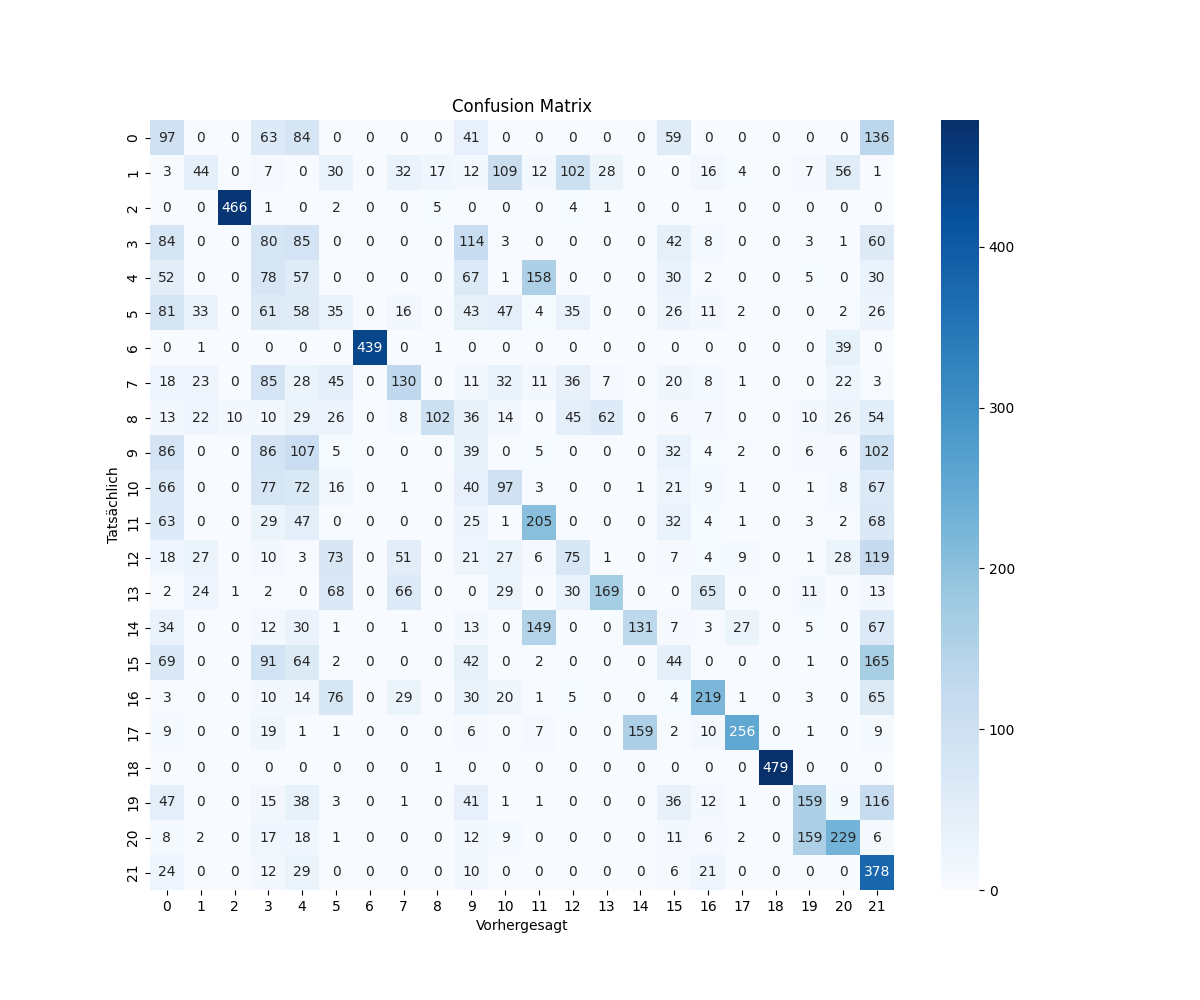
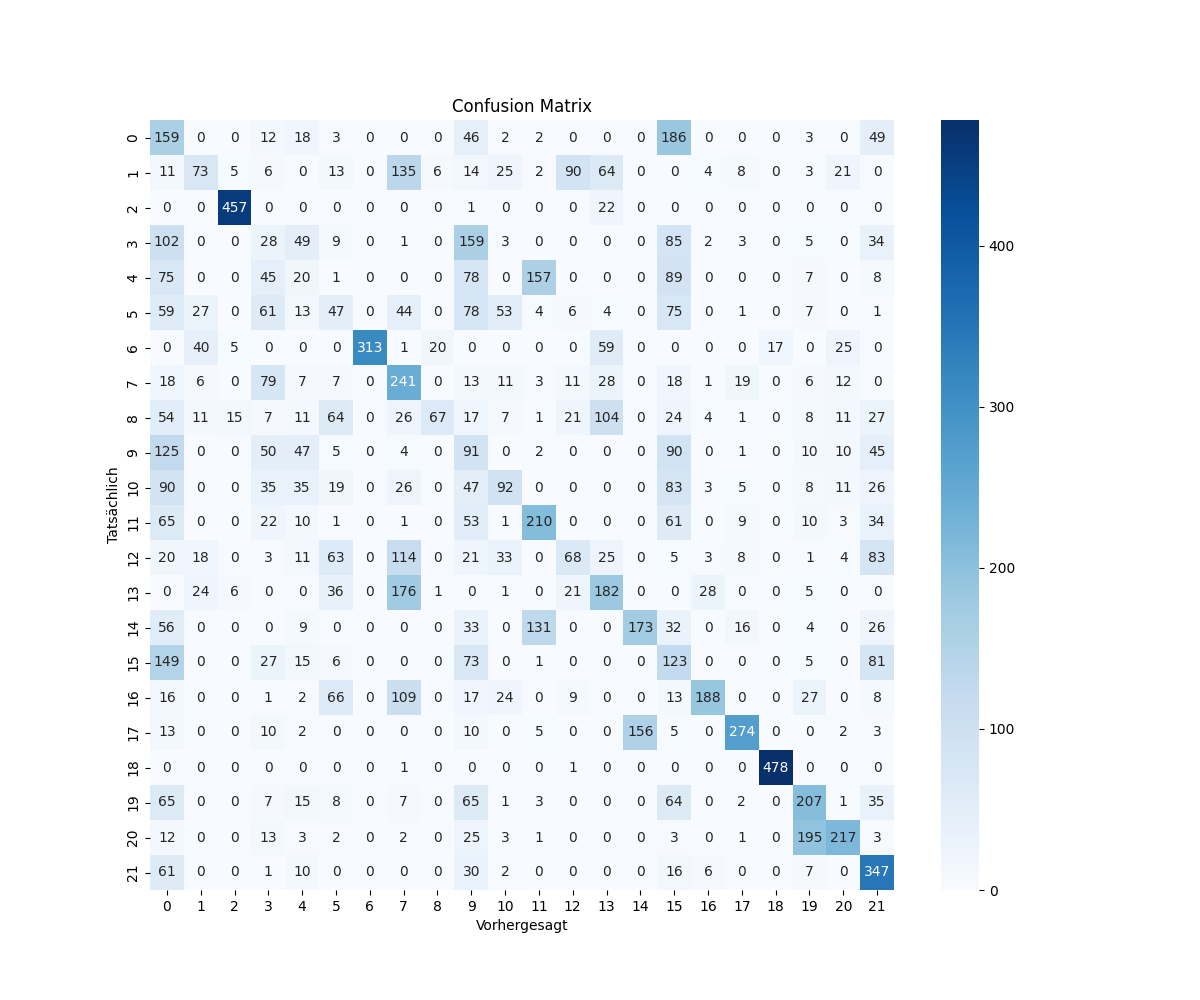
test 2

diff --git a/Refactoring by Tim/Main.py b/Refactoring by Tim/Main.py
@@ -15,21 +15,21 @@ RELPATH = 'Dataset\\'
 
 # Trainingsparameter
 
-test_Number = 9
-numberOfEpochs = 50
+test_Number = 66
+numberOfEpochs = 300
 
-batch_Size = 15
+batch_Size = 20
 batch_Size_Predict = batch_Size
 
-learningRate = 0.005
-dynamicLearningRate = True
+learningRate = 0.001
+dynamicLearningRate = False
 decaySteps = 1000
 decayRate = 0.98
 
 numberOfHiddenLayers = 2
-neuronsPerHiddenLayer = 128
+neuronsPerHiddenLayer = 256
 
-dropout = 0.2
+dropout = 0.8
 
 ####################################################################################
 ### Funktion zum Einlesen der Dateien
